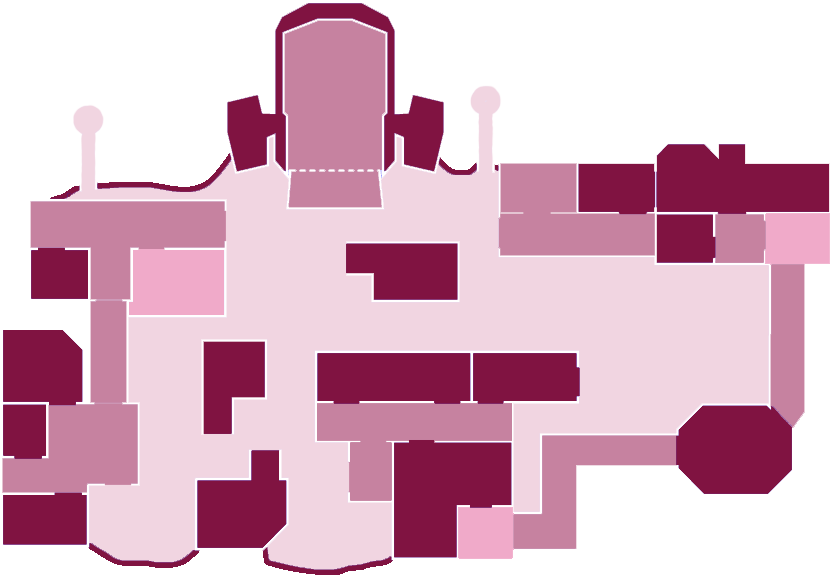
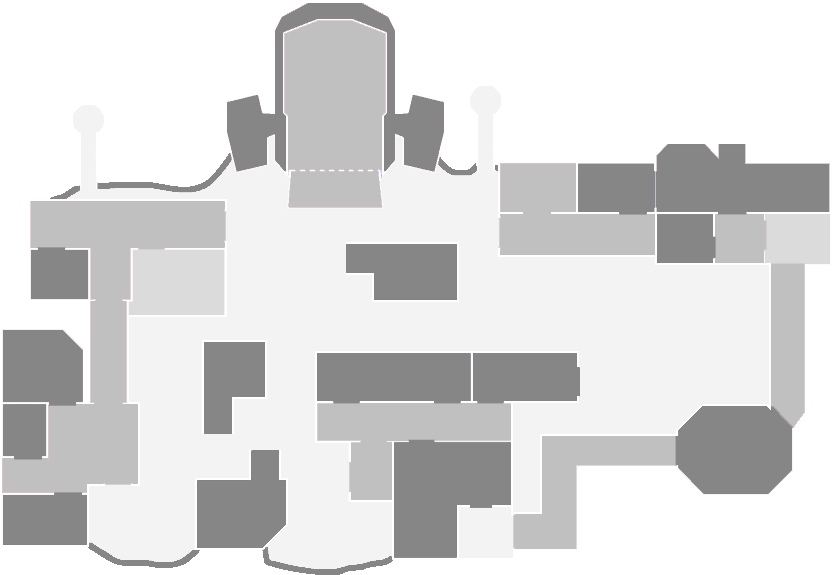
redid color picker to fit into last menu changes

diff --git a/hooks/_hooks.cpp b/hooks/_hooks.cpp
@@ -25,9 +25,17 @@ std::vector<MapTexture> maps{
 bool LoadTextureFromFile(const char* filename, ID3D11ShaderResourceView** out_srv, int* out_width, int* out_height) {
 	int image_width = 0;
 	int image_height = 0;
-	unsigned char* image_data = stbi_load(filename, &image_width, &image_height, NULL, 4);
+	int channels = 0;
+	unsigned char* image_data = stbi_load(filename, &image_width, &image_height, &channels, 4);
 	if (image_data == NULL)
 		return false;
+
+	for (int i = 0; i < (image_width * image_height * channels); i += channels) {
+		if (image_data[i] == 255 && image_data[i + 1] == 255 && image_data[i + 2] == 255) continue;
+		image_data[i] *= State.SelectedColor.x;
+		image_data[i + 1] *= State.SelectedColor.y;
+		image_data[i + 2] *= State.SelectedColor.z;
+	}
 
 	D3D11_TEXTURE2D_DESC desc;
 	ZeroMemory(&desc, sizeof(desc));
@@ -137,6 +145,13 @@ HRESULT __stdcall hkPresent(IDXGISwapChain* pSwapChain, UINT SyncInterval, UINT 
 	}
 
 	if (IsInGame() && State.ShowRadar && (!State.InMeeting || !State.HideRadar_During_Meetings)) {
+		if (State.LastColor.x != State.SelectedColor.x || State.LastColor.y != State.SelectedColor.y || State.LastColor.z != State.SelectedColor.z) {
+			int MapType = (*Game::pShipStatus)->fields.Type;
+			LoadTextureFromFile(getModulePath().append("resources\\").append(maps[MapType].name).c_str(), &maps[MapType].buffer, &maps[MapType].width, &maps[MapType].height);
+			State.LastColor.x = State.SelectedColor.x;
+			State.LastColor.y = State.SelectedColor.y;
+			State.LastColor.z = State.SelectedColor.z;
+		}
 		Radar::Render();
 	}
 

diff --git a/gui/theme.hpp b/gui/theme.hpp
@@ -1,11 +1,26 @@
 #pragma once
 #include <imgui/imgui.h>
+#include "state.hpp"
 
-#define HI(v)   ImVec4(0.502f, 0.075f, 0.256f, v)
-#define MED(v)  ImVec4(0.455f, 0.198f, 0.301f, v)
-#define LOW(v)  ImVec4(0.232f, 0.201f, 0.271f, v)
 #define BG(v)   ImVec4(0.200f, 0.220f, 0.270f, v)
 #define IMGUI_TEXT(v) ImVec4(0.860f, 0.930f, 0.890f, v)
+
+#define BG(v)   ImVec4(0.200f, 0.220f, 0.270f, v)
+
+ImVec4 HI(float v) {
+	ImVec4 vec = State.SelectedColor;
+	return ImVec4(vec.x, vec.y, vec.z, v);
+}
+
+ImVec4 MED(float v) {
+	ImVec4 vec = State.SelectedColor;
+	return ImVec4(vec.x / 1.5, vec.y / 1.5, vec.z / 1.5, v);
+}
+
+ImVec4 LOW(float v) {
+	ImVec4 vec = State.SelectedColor;
+	return ImVec4(vec.x / 2, vec.y / 2, vec.z / 2, v);
+}
 
 void ApplyTheme() {
 	auto& style = ImGui::GetStyle();

diff --git a/gui/tabs/radar_tab.cpp b/gui/tabs/radar_tab.cpp
@@ -15,6 +15,14 @@ namespace RadarTab {
 			ImGui::Checkbox("Hide Radar During Meetings", &State.HideRadar_During_Meetings);
 			ImGui::Checkbox("Right Click to Teleport", &State.ShowRadar_RightClick_Teleport);
 
+			ImGui::Dummy(ImVec2(7, 7));
+			ImGui::Separator();
+			ImGui::Dummy(ImVec2(7, 7));
+
+			ImGui::PushItemWidth(ImGui::GetWindowWidth() / 3.5);
+			ImGui::ColorPicker4("##picker", (float*)&State.SelectedColor, ImGuiColorEditFlags_NoInputs | ImGuiColorEditFlags_NoLabel);
+			ImGui::PopItemWidth();
+
 			ImGui::EndTabItem();
 		}
 	}

diff --git a/user/state.hpp b/user/state.hpp
@@ -87,6 +87,9 @@ public:
 	Vector3 camPos = { NULL, NULL, NULL };
 	Vector3 prevCamPos = { NULL, NULL, NULL };
 
+	ImVec4 SelectedColor = ImVec4(0.502f, 0.075f, 0.256f, 1);
+	ImVec4 LastColor = ImVec4(0.502f, 0.075f, 0.256f, 1);
+
 	void Load();
 	void Save();
 };
